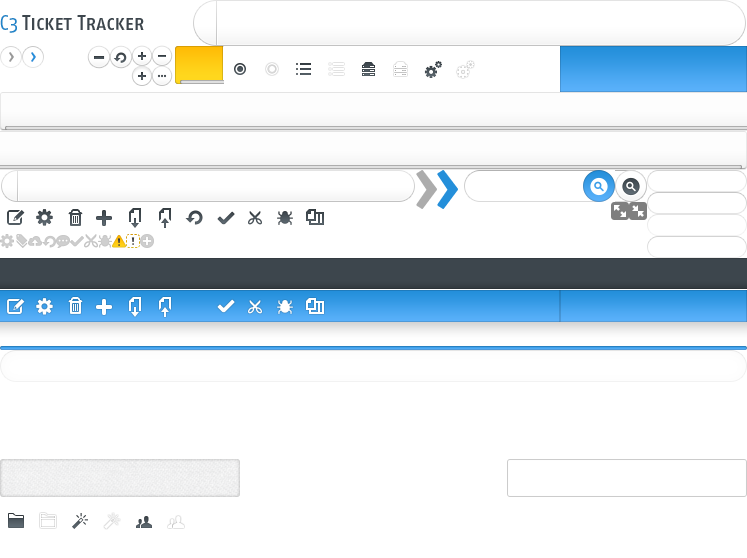
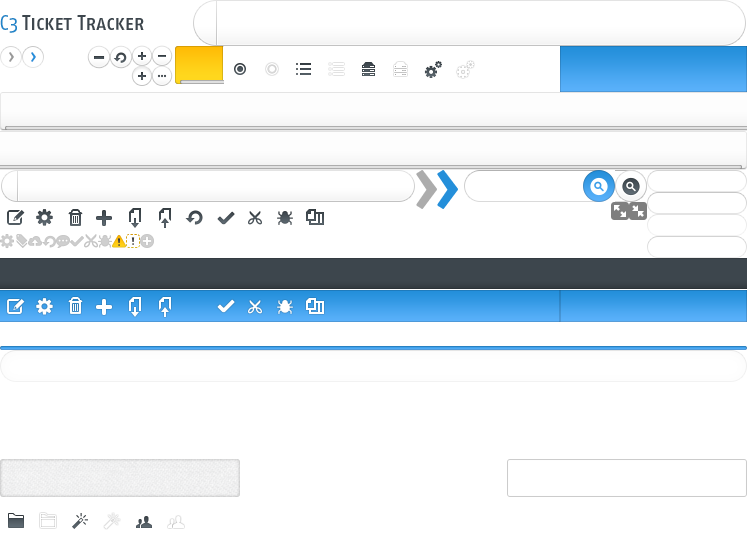
Disabled hiding the project bar
This isn’t useful anymore and may cause confusion.

Changed region(s): [[0.0, 0.5789, 1.0, 0.6093]]

diff --git a/Public/javascript/main.js b/Public/javascript/main.js
@@ -1131,35 +1131,6 @@ $(function() {
         .insertAfter(input);
     });
   
-  var projectBarHidden = $.cookie('p') == '0',
-      basePath = /https?\:\/\/(.*?)(\/.*)/.exec($('base')[0].href);
-  
-  $('<a></a>').attr({href: '#', id: 'projects-hide'}).appendTo($('#projects'))
-    .text((projectBarHidden)? 'Show project bar' : 'Hide project bar').click(function(event) {
-      event.preventDefault();
-      
-      if (!projectBarHidden) {
-        $('#projects ul').animate({'margin-top': '-32'}, 400, function() {
-          $('#projects ul').css('margin-top', '0px').hide();
-          $(event.target).text('Show project bar');
-        });
-        $('body').addClass('full');
-        $.cookie('p', 0, {path: basePath[2]});
-        projectBarHidden = true;
-      } else {
-        $('#projects ul').css('margin-top', '-32px').show().animate({'margin-top': '0'}, 400, function() {
-          $('body').removeClass('full');
-          $(event.target).text('Hide project bar');
-        });
-        $.cookie('p', 1, {path: basePath[2]});
-        projectBarHidden = false;
-      }
-    }).css('opacity', 0).hover(function(event) {
-      $(event.target).animate({opacity: 1}, 300);
-    }, function(event) {
-      $(event.target).clearQueue().animate({opacity: 0}, 300);
-    });
-  
   $('#user-login-user').focus();
   
   $('a[data-dialog-confirm]').each(function(i, a) {

diff --git a/Public/css/main.css b/Public/css/main.css
@@ -12,8 +12,6 @@ body {
 	font-size: 80.00%;
 }
 
-body.full { background-position: left -32px; }
-
 img, fieldset {border: none}
 p {margin: 0.3em 0 0;line-height: 1.5em;}
 ul, ol, dl {padding-left: 1.5em}
@@ -141,26 +139,6 @@ ul.navigation input{font-size: 0.9em; float: none; margin-top: -0.2em;}
 
 #projects ul li.padding { margin: 0 -0.4em 0 0.6em; color: #B8C4D2; }
 #projects ul li.right.padding { margin: 0 0.6em 0 -0.4em; }
-
-#projects a#projects-hide {
-	display: block;
-	position: absolute;
-	height: 18px;
-	bottom: -23px;
-	left: 0;
-	right: 0;
-	padding: 0.5em 0 0;
-	margin: 0;
-	z-index: 10;
-	text-align: center;
-	font-size: 0.85em;
-	color: #707070;
-	background: transparent url(../images/main.png) repeat-x left -323px;
-}
-
-#projects a#projects-hide:hover, #projects a#projects-hide:focus {
-	text-decoration: none;
-}
 
 #header, #content {
 	position: relative;
